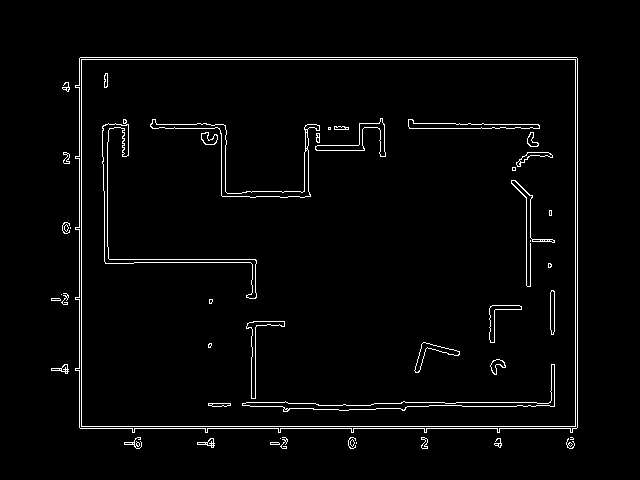
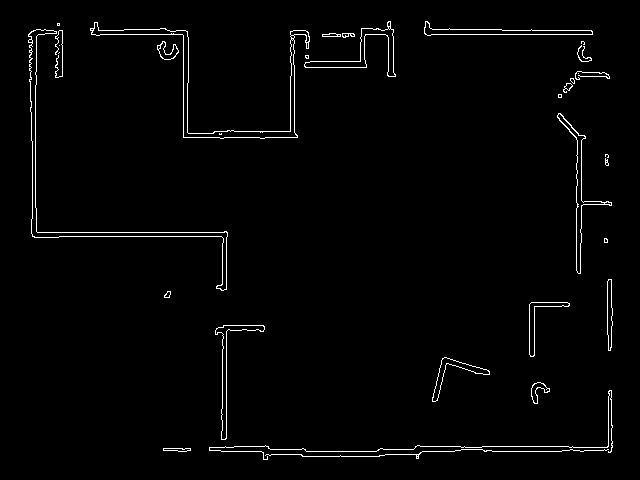
linhas_hough

diff --git a/explore_laser.py b/explore_laser.py
@@ -304,8 +304,14 @@ def salva_dados(x_laser, y_laser, x_robo, y_robo, x_odom, y_odom):
 
 def plotar_mapa():
 	fig = plt.figure()
+
+	ax = plt.Axes(fig, [0., 0., 1., 1.])
+	ax.set_axis_off()
+	fig.add_axes(ax)
+	#ax.imshow(your_image, aspect='normal')
 	plt.scatter(pontos_x, pontos_y, s=0.5)
 	fig.savefig('points_.png')
+
 	line1, = plt.plot(odometria_x, odometria_y, 'r--', label='Odometria')
 	line2, = plt.plot(trajetoria_x, trajetoria_y, 'g', label='Ground-truth')
 	plt.legend(handles=[line1, line2])
@@ -314,7 +320,7 @@ def plotar_mapa():
 	image = cv2.imread('points_.png',0)
 	image = cv2.Canny(image, 50, 100, None, 3)
 	cv2.imwrite('canny_.png',image)
-	lines = cv2.HoughLines(image, 1, np.pi/180, 100, None, 0, 0)[0]
+	lines = cv2.HoughLines(image, 1, np.pi/180, 75, None, 0, 0)[0]
 	destine = image #np.full((image.shape[0],image.shape[1],3),255.0)
 	if lines is not None:
 		for l in lines:
@@ -327,7 +333,7 @@ def plotar_mapa():
 			pt1 = (int(x0 + 1000*(-b)), int(y0 + 1000*(a)))
 			pt2 = (int(x0 - 1000*(-b)), int(y0 - 1000*(a)))
 			cv2.line(destine, pt1, pt2, (255,0,0), 1)
-	cv2.imwrite('hough_lines_map.jpg',destine)
+	cv2.imwrite('hough_lines_map.jpg',cv2.bitwise_not(destine))
 
 display = False
 localizacao = localization.localizacao()
